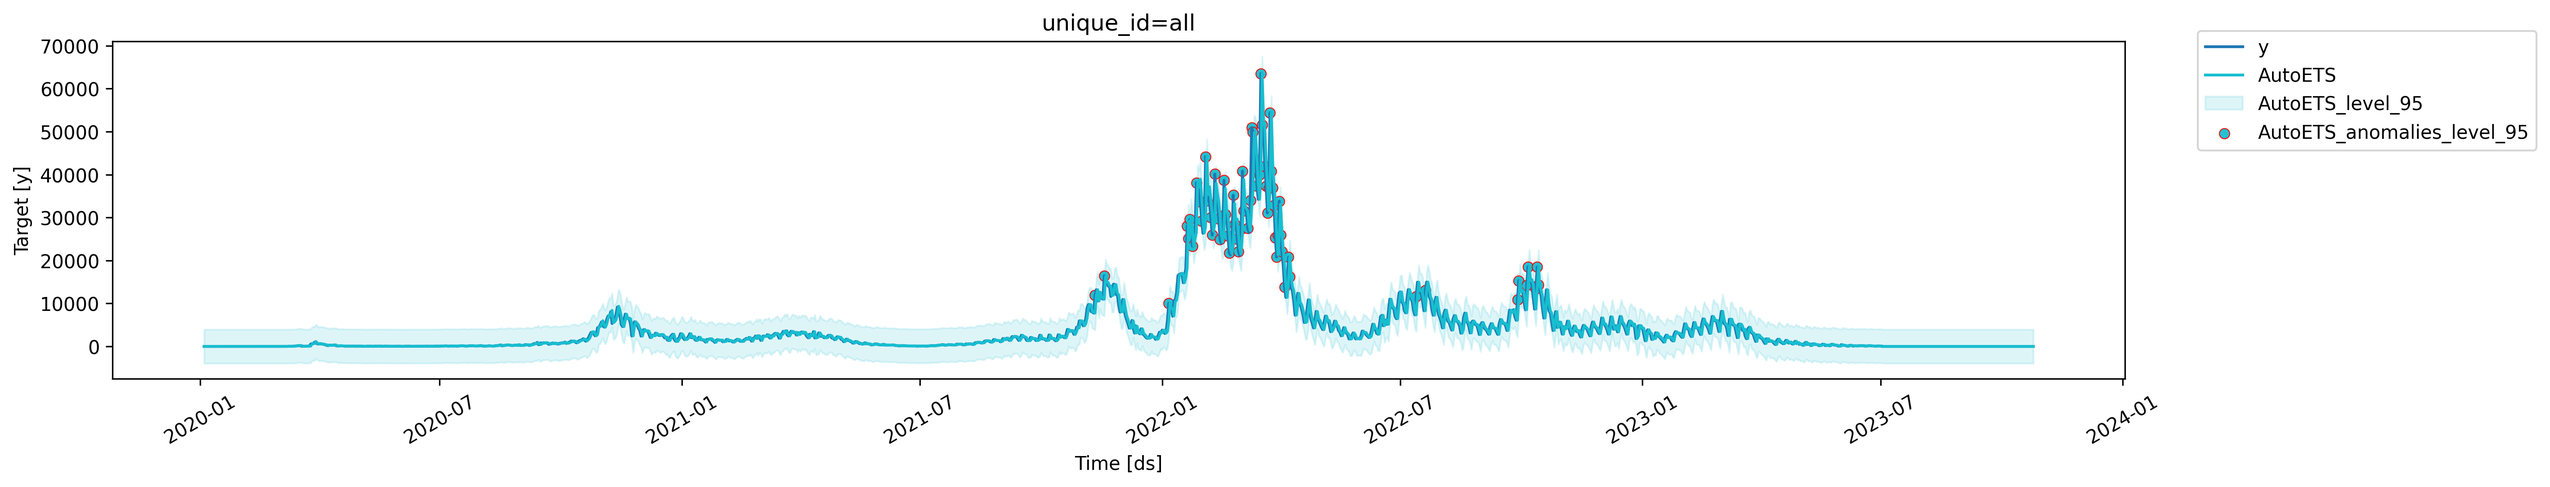
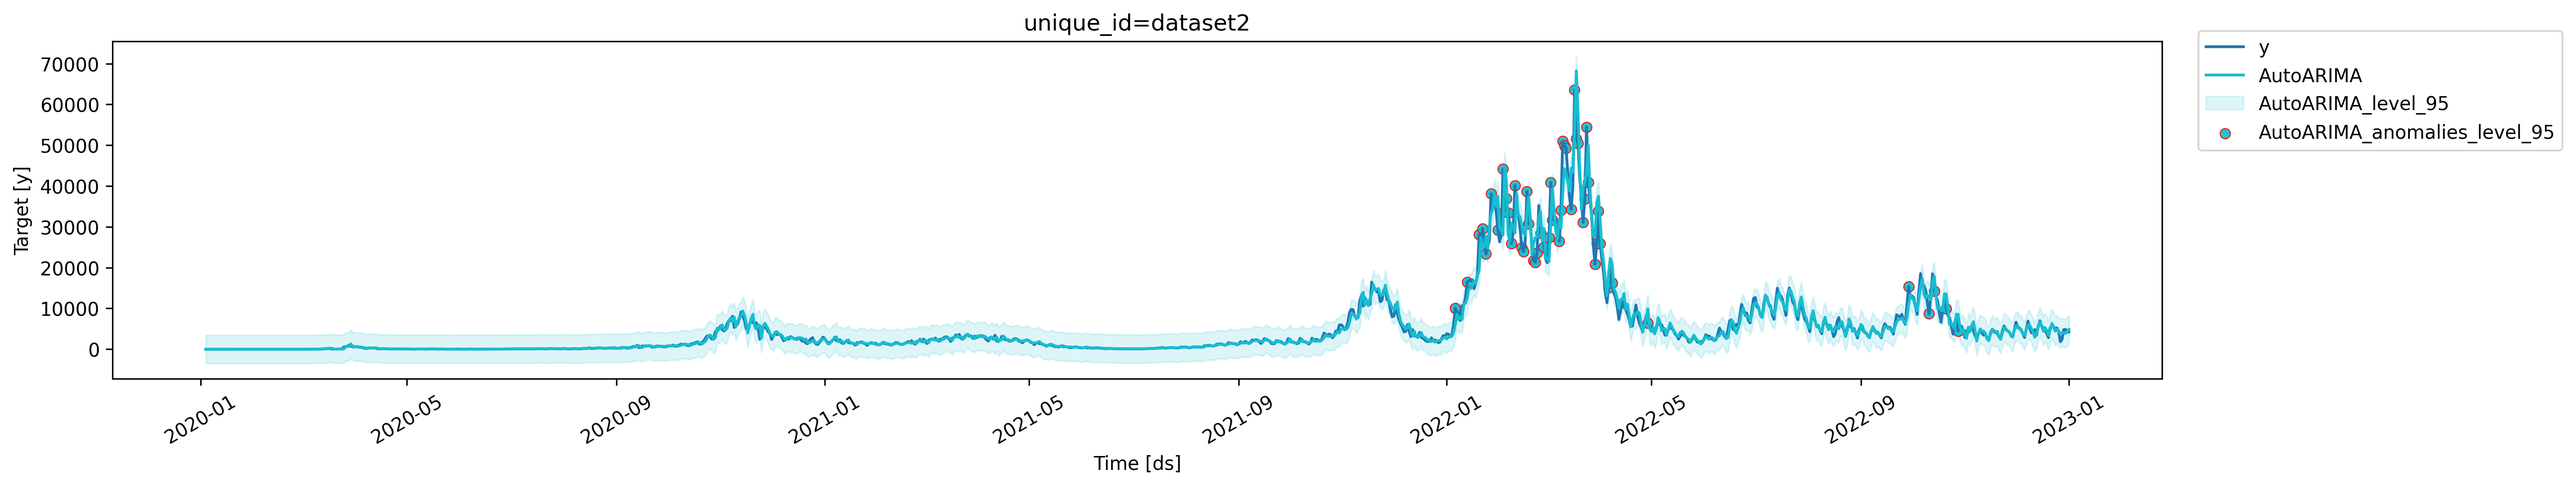
date process, date fill and promt improved (#20)

diff --git a/timecopilot/scripts/test_timecopilot_Agent_prompt.py b/timecopilot/scripts/test_timecopilot_Agent_prompt.py
@@ -1,0 +1,157 @@
+import os
+import pandas as pd
+from timecopilot import TimeCopilot
+from pydantic_ai.models.bedrock import BedrockConverseModel
+
+from pydantic_ai.models.openai import OpenAIChatModel
+from pydantic_ai.providers.openai import OpenAIProvider
+from pydantic_ai.providers.ollama import OllamaProvider
+from multiprocessing import Process, freeze_support
+import time
+
+from timecopilot.models.prophet import Prophet
+# statsmodels
+from timecopilot.models.stats import ADIDA, AutoARIMA, AutoCES, AutoETS, CrostonClassic, DynamicOptimizedTheta, HistoricAverage, IMAPA, SeasonalNaive, Theta, ZeroModel
+# foundation models
+from timecopilot.models.foundation.chronos import Chronos
+from timecopilot.models.foundation.flowstate import FlowState
+from timecopilot.models.foundation.moirai import Moirai
+from timecopilot.models.foundation.sundial import Sundial
+from timecopilot.models.foundation.tabpfn import TabPFN
+from timecopilot.models.foundation.tirex import TiRex
+from timecopilot.models.foundation.timegpt import TimeGPT
+from timecopilot.models.foundation.timesfm import TimesFM
+from timecopilot.models.foundation.toto import Toto
+# ml models
+from timecopilot.models.ml import AutoLGBM
+# nn models
+from timecopilot.models.neural import AutoNHITS, AutoTFT
+
+import nest_asyncio
+
+nest_asyncio.apply()
+
+
+def main():
+    """
+    dataset2.csv contains a missing date, which causes timecopilot errors, here we show how to deal with it
+    missing date 2020-03-06,14
+    """
+    df = pd.read_csv(os.path.join(os.getcwd(), "data", "dataset2.csv"), parse_dates=True)
+    date_colname= "date"
+    target_colname = "target"
+    df[date_colname] = pd.to_datetime(df[date_colname])
+    df.rename(columns={date_colname: "ds", target_colname: "y"}, inplace=True)
+    df = df.set_index('ds').resample('D').ffill().reset_index()
+    df["unique_id"] = "dataset2"
+    cols = ['unique_id', 'ds', 'y']
+
+    limit_date = '2023-01-02'
+    df_train = df[df['ds'] < limit_date].copy()
+    df_test = df[df['ds'] >= limit_date].copy()
+
+    user_query = 'Please do a decomposition and separate the trend and seasonality. Please also provide the confidence intervals for the forecast. Please also provide an explanation of the forecast.'
+
+    st = time.time()
+    tc = TimeCopilot(llm="The_LLM_you_selected", retries=3)
+    # listing all default models that timecopilot uses for forecasting and cross-validation.
+    # DEFAULT_MODELS: list[Forecaster] = [
+    #     ADIDA(), AutoARIMA(), AutoCES(), AutoETS(), CrostonClassic(), DynamicOptimizedTheta(),
+    #     HistoricAverage(), IMAPA(), SeasonalNaive(), Theta(), ZeroModel(), Prophet(),
+    # ]
+
+    result = tc.forecast(df=df_train[cols], query=user_query)
+    print(f"Run Time: {time.time() - st}")
+    print(result.output.tsfeatures_analysis)
+
+    answer = tc.query("Make a plot with the decomposition of the forecast and the confidence intervals.")
+    print(answer.output)
+
+    answer = tc.query("Which model performed best?")
+    print(answer.output)
+
+    answer = tc.query("Are there anomalies?, create a plot showing the anomalies.")
+    print(answer.output)
+
+    answer = tc.query("Show the forecast with the best model for 12 future points.")
+    print(answer.output)
+
+
+if __name__ == '__main__':
+    freeze_support()
+    main()
+
+
+"""
+OUTPUT OBTAINED AFTER RUNNING THE CODE
+
+The time series features reveal several important characteristics about the data:
+
+1. Strong trend presence (trend: 0.8298) - indicating a clear upward movement over time
+2. High stability (stability: 0.9509) - the series maintains consistent statistical properties
+3. High autocorrelation at lag 1 (x_acf1: 0.9686) and lag 10 (x_acf10: 8.4312) - indicating strong persistence in the data
+4. Non-stationary nature (unitroot_pp: -16.3646) - the series has a unit root and is not stationary
+5. Length: 1095 observations representing approximately 3 years of daily data
+6. Low lumpiness (0.0477) and moderate entropy (0.4216) - suggesting relatively smooth transitions
+7. No seasonal period detected (seasonal_period: 1) - indicating no clear seasonal pattern
+
+The series shows a strong trend component with high persistence but no clear seasonality. The non-stationarity suggests that 
+differencing or trend modeling will be important for accurate forecasting. The high stability indicates that the underlying 
+data generation process is relatively consistent over time.
+
+*** Make a plot with the decomposition of the forecast and the confidence intervals.
+I apologize, but I don't have a specific tool available to create a plot with the decomposition of the forecast and confidence intervals. 
+The plot_tool function we have doesn't directly support this type of visualization. 
+
+However, I can offer you some alternative visualizations that might be helpful:
+
+1. We can show you the forecast plot, which will display the actual values and the forecasted values. This might give you some insight into the model's performance.
+
+2. We can also show you the raw time series data, which could help you understand the overall pattern and any potential seasonality or trends.
+
+
+***Which model performed best?
+The AutoARIMA model performed best with a MASE (Mean Absolute Scaled Error) score of 0.349. This is significantly better than the other models:
+
+- AutoARIMA: 0.349
+- DynamicOptimizedTheta: 0.625
+- AutoETS: 0.634
+- SeasonalNaive: 0.634
+- Theta: 0.635
+- Prophet: 1.351
+
+The lower the MASE score, the better the model performance, with values below 1.0 indicating better performance than a naive seasonal forecast. 
+AutoARIMA's score of 0.349 suggests it captures the time series patterns significantly better than the other models.
+
+So, yes – the series contains anomalous points.
+
+---
+***Are there anomalies?, create a plot showing the anomalies.
+Yes, there are anomalies in the dataset. According to the analysis:
+
+- The AutoARIMA model detected 50 anomalies in the time series "dataset2"
+- This represents 4.57% of the total data points (50 out of 1094)
+- The first few detected anomaly dates include: 
+January 6, 2022; January 13, 2022; January 20, 2022; January 22, 2022; January 24, 2022; January 27, 2022; January 31, 2022; February 3, 2022; February 4, 2022; and February 5, 2022
+
+The plot I've generated shows the time series with anomalies highlighted, making it easy to identify where these unusual data points occur in relation 
+to the overall pattern. The anomalies represent points where the actual values deviated significantly from what the model expected based on the 
+established patterns in the data.
+
+---
+
+I've generated a forecast plot using the best-performing model (AutoARIMA) for 12 future time points. The plot shows:
+
+1. Historical data (actual values) in blue
+2. Forecasted values in orange 
+3. Confidence intervals as a shaded area around the forecast
+
+The AutoARIMA model, which had the lowest MASE score of 0.349, predicts the future values of the time series "dataset2". 
+The forecast covers 12 future periods, and you can see the predicted trajectory continuing from the recent trend in the historical data.
+
+The confidence intervals (shaded area) represent the uncertainty around the forecast. As expected, the uncertainty generally increases 
+with the forecast horizon, reflecting greater unpredictability for longer-term predictions.
+
+The forecasted values suggest that the time series will continue at a similar level to the most recent observations, with the model 
+capturing the underlying patterns and trends in the data.
+"""

diff --git a/timecopilot/scripts/fill_empty_date_Agent.py b/timecopilot/scripts/fill_empty_date_Agent.py
@@ -17,23 +17,18 @@ def main():
     dataset2.csv contains a missing date, which causes timecopilot errors, here we show how to deal with it
     missing date 2020-03-06,14
     """
-    df = pd.read_csv(os.path.join(os.getcwd(), "data", "dataset2.csv"), parse_dates=True)
+    df = pd.read_csv(os.path.join(os.getcwd(), "data", "dataset2.csv"), parse_dates=True) 
     date_colname= "date"
     target_colname = "target"
     df[date_colname] = pd.to_datetime(df[date_colname])
-    df["unique_id"] = "dataset2"
     df.rename(columns={date_colname: "ds", target_colname: "y"}, inplace=True)
-
-    df_left = pd.DataFrame()
-    df_left['ds'] = pd.date_range(start=df['ds'].min(), end=df['ds'].max(), freq='D')
+    df = df.set_index('ds').resample('D').ffill().reset_index()
+    df["unique_id"] = "dataset2"
     cols = ['unique_id', 'ds', 'y']
 
-    df = pd.merge(df_left, df, how='left', on='ds')
-    df['y'] = df['y'].fillna(0)
-    df['unique_id'] = 'all'
-
-    df_train = df[df['ds'] < '2023-01-02'].copy()
-    df_test = df[df['ds'] >= '2023-01-02'].copy()
+    limit_date = '2023-01-02'
+    df_train = df[df['ds'] < limit_date].copy()
+    df_test = df[df['ds'] >= limit_date].copy()
 
     tc = TimeCopilot(llm="<The LLM you selected>", retries=3)
     result = tc.forecast(df=df_train[cols], freq='D')

diff --git a/timecopilot/scripts/test_timecopilot_Agent.py b/timecopilot/scripts/test_timecopilot_Agent.py
@@ -41,19 +41,14 @@ def main():
     date_colname= "date"
     target_colname = "target"
     df[date_colname] = pd.to_datetime(df[date_colname])
-    df["unique_id"] = "dataset2"
     df.rename(columns={date_colname: "ds", target_colname: "y"}, inplace=True)
-
-    df_left = pd.DataFrame()
-    df_left['ds'] = pd.date_range(start=df['ds'].min(), end=df['ds'].max(), freq='D')
+    df = df.set_index('ds').resample('D').ffill().reset_index()
+    df["unique_id"] = "dataset2"
     cols = ['unique_id', 'ds', 'y']
 
-    df = pd.merge(df_left, df, how='left', on='ds')
-    df['y'] = df['y'].fillna(0)
-    df['unique_id'] = 'all'
-
-    df_train = df[df['ds'] < '2023-01-02'].copy()
-    df_test = df[df['ds'] >= '2023-01-02'].copy()
+    limit_date = '2023-01-02'
+    df_train = df[df['ds'] < limit_date].copy()
+    df_test = df[df['ds'] >= limit_date].copy()
 
     st = time.time()
     tc = TimeCopilot(llm="The LLM you selected", retries=3)
@@ -63,7 +58,7 @@ def main():
     #     HistoricAverage(), IMAPA(), SeasonalNaive(), Theta(), ZeroModel(), Prophet(),
     # ]
 
-    result = tc.forecast(df=df_train)
+    result = tc.forecast(df=df_train[cols])
     print(f"Run Time: {time.time() - st}")
     print(result.output.tsfeatures_analysis)
 

diff --git a/timecopilot/scripts/test_fundational_Agent.py b/timecopilot/scripts/test_fundational_Agent.py
@@ -13,15 +13,18 @@ nest_asyncio.apply()
 
 
 def main():
-    df = pd.read_csv(os.path.join(os.getcwd(), "timecopilot", "data", "dataset2.csv"), parse_dates=True) 
+    df = pd.read_csv(os.path.join(os.getcwd(), "data", "dataset2.csv"), parse_dates=True) 
     date_colname= "date"
     target_colname = "target"
     df[date_colname] = pd.to_datetime(df[date_colname])
-    df["unique_id"] = "dataset1"
     df.rename(columns={date_colname: "ds", target_colname: "y"}, inplace=True)
+    df = df.set_index('ds').resample('D').ffill().reset_index()
+    df["unique_id"] = "dataset2"
+    cols = ['unique_id', 'ds', 'y']
 
-    df_train = df[df['ds'] < '2023-01-02'].copy()
-    df_test = df[df['ds'] >= '2023-01-02'].copy()
+    limit_date = '2023-01-02'
+    df_train = df[df['ds'] < limit_date].copy()
+    df_test = df[df['ds'] >= limit_date].copy()
 
     Moirai_Moe = Moirai(
         repo_id="Salesforce/moirai-moe-1.0-R-small",
@@ -34,7 +37,7 @@ def main():
 
     tc = TimeCopilot(llm="<The LLM you selected>", forecasters=[Chronos(), Moirai_Moe], retries=3,)
 
-    result = tc.forecast(df=df_train)
+    result = tc.forecast(df=df_train[cols])
     print(result)
     print(result.output.tsfeatures_analysis)
 

diff --git a/timecopilot/scripts/test_TimeTopilotForecaster.py b/timecopilot/scripts/test_TimeTopilotForecaster.py
@@ -36,19 +36,14 @@ def main():
     date_colname= "date"
     target_colname = "target"
     df[date_colname] = pd.to_datetime(df[date_colname])
-    df["unique_id"] = "dataset2"
     df.rename(columns={date_colname: "ds", target_colname: "y"}, inplace=True)
-
-    df_left = pd.DataFrame()
-    df_left['ds'] = pd.date_range(start=df['ds'].min(), end=df['ds'].max(), freq='D')
+    df = df.set_index('ds').resample('D').ffill().reset_index()
+    df["unique_id"] = "dataset2"
     cols = ['unique_id', 'ds', 'y']
 
-    df = pd.merge(df_left, df, how='left', on='ds')
-    df['y'] = df['y'].fillna(0)
-    df['unique_id'] = 'all'
-
-    df_train = df[df['ds'] < '2023-01-02'].copy()
-    df_test = df[df['ds'] >= '2023-01-02'].copy()
+    limit_date = '2023-01-02'
+    df_train = df[df['ds'] < limit_date].copy()
+    df_test = df[df['ds'] >= limit_date].copy()
 
     st = time.time()
     tcf = TimeCopilotForecaster(
@@ -66,7 +61,7 @@ def main():
         ]
     )
     cv_results = tcf.cross_validation(
-        df=df_train,
+        df=df_train[cols],
         h=180,          # Forecast horizon
         n_windows=3     # Number of CV folds
     )

diff --git a/timecopilot/scripts/add_sktime_models_Agent.py b/timecopilot/scripts/add_sktime_models_Agent.py
@@ -20,15 +20,16 @@ def main():
     """
     Forecasters from sktime can be easily called from timecopilot.
     """
-    df = pd.read_csv(os.path.join(os.getcwd(), "timecopilot", "data", "dataset3.csv"), parse_dates=True) 
+    df = pd.read_csv(os.path.join(os.getcwd(), "data", "dataset3.csv"), parse_dates=True) 
     date_colname= "date"
     target_colname = "target"
     df[date_colname] = pd.to_datetime(df[date_colname])
     df["unique_id"] = "dataset3"
     df.rename(columns={date_colname: "ds", target_colname: "y"}, inplace=True)
 
-    df_train = df[df['ds'] < '2023-01-02'].copy()
-    df_test = df[df['ds'] >= '2023-01-02'].copy()
+    limit_date = '2014-06-01'
+    df_train = df[df['ds'] < limit_date].copy()
+    df_test = df[df['ds'] >= limit_date].copy()
 
     trend_forecaster = TrendForecaster()
     exp_smoothing = ExponentialSmoothing()

diff --git a/timecopilot/scripts/explore_moirai_moe_TimeCopilotForecaster.py b/timecopilot/scripts/explore_moirai_moe_TimeCopilotForecaster.py
@@ -9,15 +9,16 @@ from timecopilot.models.foundation.moirai import Moirai
 
 
 def main():
-    df = pd.read_csv(os.path.join(os.getcwd(), "timecopilot", "data", "dataset3.csv"), parse_dates=True) 
+    df = pd.read_csv(os.path.join(os.getcwd(), "data", "dataset3.csv"), parse_dates=True) 
     date_colname= "date"
     target_colname = "target"
     df[date_colname] = pd.to_datetime(df[date_colname])
     df["unique_id"] = "dataset3"
     df.rename(columns={date_colname: "ds", target_colname: "y"}, inplace=True)
 
-    df_train = df[df['ds'] < '2023-01-02'].copy()
-    df_test = df[df['ds'] >= '2023-01-02'].copy()
+    limit_date = '2014-06-01'
+    df_train = df[df['ds'] < limit_date].copy()
+    df_test = df[df['ds'] >= limit_date].copy()
 
     Moirai_Moe = Moirai(
         repo_id="Salesforce/moirai-moe-1.0-R-small",
